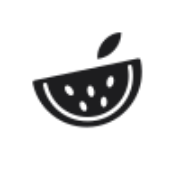
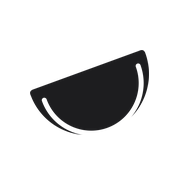
Add files via upload

Changed region(s): [[0.1667, 0.1667, 0.8333, 0.75], [0.5833, 0.4167, 0.6389, 0.5]]

diff --git a/admin/index.html b/admin/index.html
@@ -14,7 +14,7 @@ body{margin:0;background:var(--soft);color:var(--ink);font-family:var(--bf);font
 button{font-family:inherit;cursor:pointer;border:none;background:none;color:inherit;font-size:inherit;padding:0}
 input,select{font-family:var(--bf);font-size:15px;color:var(--ink)}
 b{font-weight:600}
-.top{background:rgba(250,250,252,.85);backdrop-filter:blur(20px);color:var(--ink);border-bottom:1px solid rgba(0,0,0,.08);padding:12px 16px;display:flex;align-items:center;gap:10px;position:sticky;top:0;z-index:5}
+.top{background:rgba(250,250,252,.85);position:sticky;top:0;z-index:5;backdrop-filter:blur(20px);color:var(--ink);border-bottom:1px solid rgba(0,0,0,.08);padding:12px 16px;display:flex;align-items:center;gap:10px;position:sticky;top:0;z-index:5}
 .top h1{margin:0;font-weight:700;font-size:17px;flex:1;display:flex;align-items:center;gap:6px}
 .top h1 span{color:var(--ink)}
 
@@ -64,6 +64,44 @@ th{font-weight:500;color:var(--muted);font-size:12.5px}
 .mrow:last-of-type{border-bottom:none}
 .mrow .mi{flex:1;min-width:0;line-height:1.6}
 .mrow .mi b{font-size:15px;color:var(--navy)}
+
+/* ===== PC 최적화 레이아웃 ===== */
+body{background:#f5f5f7}
+.shell{display:grid;grid-template-columns:248px 1fr;min-height:calc(100vh - 52px)}
+.top{height:52px;padding:0 24px!important}
+.top h1{font-size:15px!important;font-weight:600!important;gap:10px!important}
+.side{background:rgba(250,250,252,.9);border-right:1px solid rgba(0,0,0,.08);padding:20px 12px;position:sticky;top:52px;height:calc(100vh - 52px);overflow:auto}
+.side h6{margin:6px 12px 10px;font-size:11px;font-weight:600;color:var(--gray);letter-spacing:.02em}
+.side button{display:flex;align-items:center;gap:10px;width:100%;text-align:left;padding:9px 12px;border-radius:9px;font-size:14px;color:var(--ink);margin-bottom:2px;position:relative}
+.side button:hover{background:rgba(0,0,0,.04)}
+.side button.on{background:rgba(0,0,0,.07);font-weight:600}
+.side button svg{color:var(--org);flex:0 0 18px}
+.side .bdg2{margin-left:auto;background:var(--org);color:#fff;border-radius:10px;font-size:11px;min-width:20px;height:20px;display:grid;place-items:center;padding:0 6px;font-weight:600}
+.side .me{display:flex;align-items:center;gap:10px;padding:14px 12px;margin-top:18px;border-top:1px solid rgba(0,0,0,.08);font-size:13px}
+.main{padding:36px 44px 60px;max-width:1180px;width:100%}
+.main .ttl{display:flex;align-items:flex-end;justify-content:space-between;gap:16px;margin-bottom:22px}
+.main .ttl h2{margin:0;font-size:34px;font-weight:700;letter-spacing:-.03em;line-height:1.1}
+.main .ttl p{margin:6px 0 0;color:var(--gray);font-size:15px}
+.wrap{max-width:none!important;padding:0!important}
+.card{padding:22px 24px!important}
+.kpis{display:grid;grid-template-columns:repeat(4,1fr);gap:14px;margin-bottom:16px}
+.kpi{background:#fff;border-radius:18px;padding:20px 22px}
+.kpi span{font-size:13px;color:var(--gray)}
+.kpi b{display:block;font-size:30px;font-weight:700;letter-spacing:-.03em;margin-top:4px}
+table.mt td,table.mt th{padding:12px 10px}
+table.mt tr:hover td{background:#fafafc}
+table.mt th{font-size:12px;text-transform:none}
+.grid2{display:grid;grid-template-columns:1.4fr 1fr;gap:16px;align-items:start}
+@media(max-width:960px){
+  .shell{grid-template-columns:1fr}
+  .side{position:static;height:auto;display:flex;gap:6px;overflow-x:auto;padding:10px 12px;border-right:none;border-bottom:1px solid rgba(0,0,0,.08)}
+  .side h6,.side .me{display:none}
+  .side button{width:auto;flex:0 0 auto;white-space:nowrap}
+  .main{padding:22px 16px 40px}
+  .kpis{grid-template-columns:1fr 1fr}
+  .grid2{grid-template-columns:1fr}
+  .scroll-x{overflow-x:auto}
+}
 </style>
 </head>
 <body>
@@ -100,7 +138,7 @@ async function renderLogin(msg) {
   if (SB_URL.includes('YOUR-')) { $('#app').innerHTML = '<div class="login card">admin/index.html 의 SB_URL·SB_KEY 를 앱과 같은 값으로 바꿔 주세요.</div>'; return; }
   let list = []; try { list = await rpc('fh_public_members', {}, true); } catch (e) { $('#app').innerHTML = `<div class="login card">${esc(e.message)}</div>`; return; }
   let sel = null;
-  $('#app').innerHTML = `<div class="login"><img src="../icons/logo.svg" width="52" height="52" alt=""><h1 style="font-weight:700;font-size:28px;letter-spacing:-.03em;margin:12px 0 0">Family Hub admin</h1>
+  $('#app').innerHTML = `<div class="login"><svg width="52" height="52" viewBox="-0.9 1.2 92.6 92.6"><defs><mask id="wmk2"><rect width="100" height="100" fill="#fff"/><path d="M14 40 A36 36 0 0 0 86 40" fill="none" stroke="#000" stroke-width="3.6" stroke-linecap="round"/></mask></defs><g transform="rotate(-20 50 50)"><path mask="url(#wmk2)" d="M6 33 Q6 30 9 30 L91 30 Q94 30 94 33 A44 44 0 0 1 6 33 Z" fill="currentColor"/></g></svg><h1 style="font-weight:700;font-size:28px;letter-spacing:-.03em;margin:12px 0 0">Family Hub admin</h1>
     ${msg ? `<p style="color:#e03131">${esc(msg)}</p>` : '<p class="muted">관리자 계정으로 로그인하세요</p>'}
     <div class="who">${list.map(m => `<button data-id="${m.id}">${av(m, 44)}${esc(m.nick)}</button>`).join('')}</div>
     <input class="inp" id="pin" type="password" inputmode="numeric" placeholder="비밀번호" style="text-align:center;font-size:18px"><button class="btn p" id="go" style="margin-top:12px;width:100%;justify-content:center">들어가기</button>
@@ -116,11 +154,17 @@ async function boot() {
   ME = MEMBERS.find(m => m.role === 'admin') || null;
   render();
 }
+const SVGI = {members: '<circle cx="9" cy="8" r="3.5"/><path d="M2.5 20a6.5 6.5 0 0 1 13 0"/><circle cx="17" cy="9" r="2.5"/><path d="M16 14.5a5 5 0 0 1 5.5 5"/>', rewards: '<rect x="3" y="8" width="18" height="5" rx="1"/><path d="M5 13v8h14v-8M12 8v13M12 8S10.5 3 8 4.5 9 8 12 8zM12 8s1.5-5 4-3.5S15 8 12 8z"/>', points: '<path d="m12 3 2.7 5.6 6.1.9-4.4 4.3 1 6.1L12 17l-5.4 2.9 1-6.1-4.4-4.3 6.1-.9z"/>', push: '<path d="M6 16V11a6 6 0 0 1 12 0v5l2 2H4z"/><path d="M10 21h4"/>', stats: '<path d="M4 20V10M10 20V4M16 20v-7M22 20H2"/>'};
+const ico = k => `<svg width="18" height="18" viewBox="0 0 24 24" fill="none" stroke="currentColor" stroke-width="1.7" stroke-linecap="round" stroke-linejoin="round">${SVGI[k]}</svg>`;
+const TITLE = { members: ['가족 구성원', '가족을 추가·삭제하고 비밀번호와 사진을 관리해요.'], rewards: ['보상·승인', '포인트 상점의 보상과 가족의 신청을 관리해요.'], points: ['포인트', '가족 포인트 현황과 규칙.'], push: ['알림 보내기', '가족 모두의 휴대폰에 알림을 보내요.'], stats: ['현황·설정', '저장 용량과 자동 알림 상태.'] };
 async function render() {
   let pend = 0; try { const rw = await rpc('fh_admin_rewards'); pend = rw.redemptions.filter(x => x.status === 'pending').length; } catch (e) { return; }
+  const me = MEMBERS.find(m => m.role === 'admin') || {};
   const T = [['members', '가족 구성원'], ['rewards', '보상·승인', pend], ['points', '포인트'], ['push', '알림 보내기'], ['stats', '현황·설정']];
-  $('#app').innerHTML = `<header class="top"><h1><img src="../icons/logo.svg" width="22" height="22" alt=""> admin</h1><a href="../">Family Hub로 ›</a><button class="btn sm" id="out">로그아웃</button></header>
-    <nav class="tabs">${T.map(([k, t, b]) => `<button data-t="${k}" class="${TAB === k ? 'on' : ''}">${t}${b ? `<span class="bdg">${b}</span>` : ''}</button>`).join('')}</nav><main class="wrap" id="main">불러오는 중…</main>`;
+  $('#app').innerHTML = `<header class="top"><h1><svg width="22" height="22" viewBox="-0.9 1.2 92.6 92.6"><defs><mask id="wmk"><rect width="100" height="100" fill="#fff"/><path d="M14 40 A36 36 0 0 0 86 40" fill="none" stroke="#000" stroke-width="3.6" stroke-linecap="round"/></mask></defs><g transform="rotate(-20 50 50)"><path mask="url(#wmk)" d="M6 33 Q6 30 9 30 L91 30 Q94 30 94 33 A44 44 0 0 1 6 33 Z" fill="currentColor"/></g></svg>Family Hub admin</h1><a href="../">Family Hub 앱 열기 ›</a><button class="btn sm" id="out">로그아웃</button></header>
+    <div class="shell"><aside class="side"><h6>관리</h6>${T.map(([k, t, b]) => `<button data-t="${k}" class="${TAB === k ? 'on' : ''}">${ico(k)}${t}${b ? `<span class="bdg2">${b}</span>` : ''}</button>`).join('')}
+      <div class="me">${av(me, 30)}<div><b>${esc(me.nick || '')}</b><div class="muted" style="font-size:12px">관리자</div></div></div></aside>
+    <section class="main"><div class="ttl"><div><h2>${TITLE[TAB][0]}</h2><p>${TITLE[TAB][1]}</p></div><div id="ttlAct"></div></div><main class="wrap" id="main">불러오는 중…</main></section></div>`;
   $$('[data-t]').forEach(b => b.onclick = () => { TAB = b.dataset.t; render(); });
   $('#out').onclick = async () => { await rpc('fh_logout').catch(() => {}); TOKEN = null; localStorage.removeItem('fh_token'); renderLogin(); };
   try { await VIEWS[TAB]($('#main')); } catch (e) { $('#main').innerHTML = `<div class="card">${esc(e.message)}</div>`; }
@@ -129,13 +173,16 @@ async function render() {
 const VIEWS = {
   async members(el) {
     MEMBERS = await rpc('fh_admin_members'); await loadPhotos();
-    el.innerHTML = `<div class="card"><h3>가족 구성원 <small><button class="btn p sm" id="add">＋ 가족 추가</button></small></h3>
-      ${MEMBERS.map(m => `<div class="mrow" style="${m.active ? '' : 'opacity:.45'}">${av(m, 40)}
-        <div class="mi"><b>${esc(m.nick)}</b> <small class="muted">${esc(m.name)} · ${m.birth.replace(/-/g, '.')}</small><br>
-          ${m.role === 'admin' ? '<span class="tag adm">admin</span>' : '<span class="tag">가족</span>'}${m.must_change ? ' <span class="tag wait">초기 비번</span>' : ''}${m.locked ? ' <span class="tag no">잠김</span>' : ''}${m.active ? '' : ' <span class="tag no">비활성</span>'}
-          <small class="muted"> ${fmtN(m.points.balance)}P · 접속 ${ago(m.last_seen)} · 기기 ${m.sessions} · 알림 ${m.push ? m.push + '대' : '꺼짐'}</small></div>
-        <button class="btn sm" data-ed="${m.id}">관리</button></div>`).join('')}
-      <p class="hint">· 새 가족의 처음 비밀번호는 <b>생일 6자리(YYMMDD)</b>예요. 처음 로그인할 때 바꾸도록 안내돼요.<br>· 비밀번호를 잊으면 [관리 → 비밀번호 초기화]를 누르면 생일 번호로 돌아가요.<br>· 비밀 메시지·타임캡슐 내용은 admin에서도 볼 수 없어요.</p></div>`;
+    const act = MEMBERS.filter(m => m.active), init = act.filter(m => m.must_change).length, push = act.filter(m => m.push).length;
+    $('#ttlAct').innerHTML = '<button class="btn p" id="add">＋ 가족 추가</button>';
+    el.innerHTML = `<div class="kpis"><div class="kpi"><span>가족</span><b>${act.length}명</b></div><div class="kpi"><span>초기 비밀번호 사용</span><b>${init}명</b></div><div class="kpi"><span>알림 켠 가족</span><b>${push}명</b></div><div class="kpi"><span>포인트 합계</span><b>${fmtN(act.reduce((a, m) => a + m.points.balance, 0))}P</b></div></div>
+      <div class="card scroll-x"><table class="mt"><tr><th></th><th>이름</th><th>실명</th><th>생일</th><th>권한</th><th>상태</th><th style="text-align:right">포인트</th><th>최근 접속</th><th>기기</th><th>알림</th><th></th></tr>
+      ${MEMBERS.map(m => `<tr style="${m.active ? '' : 'opacity:.45'}"><td style="width:48px">${av(m, 36)}</td><td><b>${esc(m.nick)}</b></td><td class="muted">${esc(m.name)}</td><td>${m.birth.replace(/-/g, '.')}</td>
+        <td>${m.role === 'admin' ? '<span class="tag adm">admin</span>' : '<span class="tag">가족</span>'}</td>
+        <td>${m.must_change ? '<span class="tag wait">초기 비번</span> ' : '<span class="tag ok">정상</span> '}${m.locked ? '<span class="tag no">잠김</span>' : ''}${m.active ? '' : '<span class="tag no">비활성</span>'}</td>
+        <td style="text-align:right">${fmtN(m.points.balance)}P</td><td class="muted">${ago(m.last_seen)}</td><td>${m.sessions}</td><td>${m.push ? m.push + '대' : '<span class="muted">꺼짐</span>'}</td>
+        <td style="text-align:right"><button class="btn sm" data-ed="${m.id}">관리</button></td></tr>`).join('')}</table></div>
+      <p class="hint">· 새 가족의 처음 비밀번호는 <b>생일 6자리(YYMMDD)</b>예요. 처음 로그인할 때 바꾸도록 안내돼요.<br>· 비밀번호를 잊으면 [관리 → 비밀번호 초기화]를 누르면 생일 번호로 돌아가요.<br>· 비밀 메시지·타임캡슐 내용은 admin에서도 볼 수 없어요.</p>`;
     $('#add').onclick = () => memberForm(null);
     $$('[data-ed]').forEach(b => b.onclick = () => memberForm(MEMBERS.find(m => m.id === +b.dataset.ed)));
   },

diff --git a/index.html b/index.html
@@ -433,6 +433,36 @@ textarea.inp{resize:vertical;min-height:84px;line-height:1.5}
 .photo-edit{display:flex;align-items:center;gap:16px}
 .photo-edit .av{cursor:pointer}
 
+/* iOS 스타일 하단 탭바 (모바일) */
+.tabbar{display:none;position:fixed;left:0;right:0;bottom:0;z-index:40;grid-template-columns:repeat(5,1fr);background:rgba(250,250,252,.92);backdrop-filter:saturate(180%) blur(20px);-webkit-backdrop-filter:saturate(180%) blur(20px);border-top:.5px solid rgba(0,0,0,.18);padding:6px 4px calc(4px + var(--safe-b))}
+.tabbar a,.tabbar button{display:flex;flex-direction:column;align-items:center;gap:2px;color:#8e8e93;font-size:10px;font-weight:500;text-decoration:none!important;position:relative;padding:2px 0}
+.tabbar a.on{color:var(--blue)}
+.tabbar .tb-dot{position:absolute;top:2px;right:calc(50% - 16px);width:8px;height:8px;border-radius:50%;background:#ff3b30}
+@media(max-width:833px){
+  .tabbar{display:grid}
+  .nav.foot-dir{display:none}
+  #app{padding-bottom:calc(70px + var(--safe-b))}
+  .gn-burger{display:none!important}
+  .gnav{height:44px}.gn-in{height:44px}.gn-logo{height:44px}.gn-logo svg{width:22px;height:22px}
+  #toast{bottom:calc(84px + var(--safe-b))}
+  .phead{padding:18px 16px 2px}
+  .phead h1{font-size:30px}
+  .phead p{font-size:15px}
+  .wrap{padding:12px 12px 24px}
+  .card{padding:16px;border-radius:14px;margin-bottom:12px}
+  .card h3{font-size:17px}
+  .hero{padding:26px 16px 0;text-align:left}
+  .hero h1{font-size:30px}
+  .hero p{font-size:16px;color:var(--gray)}
+  .chapter{justify-content:flex-start;padding:16px 8px 14px}
+  .chapter a{width:66px;font-size:11px}
+  .mcard{border-radius:14px}
+  .fam{gap:10px}
+  .alert{border-radius:12px;padding:12px 14px}
+  .sheet{padding:18px 16px calc(18px + var(--safe-b))}
+  .btn.block{padding:13px 18px;font-size:16px}
+}
+
 @media(max-width:833px){
   .gn-list{display:none}
   .gn-burger{display:grid}
@@ -464,7 +494,7 @@ textarea.inp{resize:vertical;min-height:84px;line-height:1.5}
 const SB_URL = 'https://kcpymvsvczjjqptvtvxf.supabase.co';          // Project Settings → API → Project URL
 const SB_KEY = 'sb_publishable_I70vgd6mSVcflUH_NkzGAw_z0z2dWt7';                         // Project Settings → API Keys → anon(public) 또는 Publishable key
 const VAPID_PUBLIC_KEY = 'BORHql6j4hY0yWJlD1CXtbzeYXIF1dxkHLbD4SyYQqQn9riQjrM4j2w5gs2mhKcUHBvh_vkjFiVPOSnAA2W_IVw';
-const APP_VER = 'v2.0 · 2026.11';
+const APP_VER = 'v2.1 · 2026.11';
 
 /* ---------------- 기본 도구 ---------------- */
 const $ = (s, r = document) => r.querySelector(s), $$ = (s, r = document) => [...r.querySelectorAll(s)];
@@ -558,7 +588,7 @@ const IC = {
   phone: '<rect x="6" y="2" width="12" height="20" rx="3"/><path d="M11 18h2"/>'
 };
 const icon = (n, s = 20, w = 1.8) => `<svg class="ic" width="${s}" height="${s}" viewBox="0 0 24 24" fill="none" stroke="currentColor" stroke-width="${w}" stroke-linecap="round" stroke-linejoin="round">${IC[n] || IC.info}</svg>`;
-const LOGO = `<svg viewBox="2 4 96 96" aria-label="Family Hub"><defs><mask id="wmk"><rect x="0" y="0" width="100" height="100" fill="#fff"/><path d="M17 41 A33 33 0 0 0 83 41" fill="none" stroke="#000" stroke-width="3.2" stroke-linecap="round"/><g fill="#000"><ellipse cx="34" cy="49" rx="2.6" ry="4.4" transform="rotate(-25 34 49)"/><ellipse cx="50" cy="53" rx="2.6" ry="4.4"/><ellipse cx="66" cy="49" rx="2.6" ry="4.4" transform="rotate(25 66 49)"/><ellipse cx="42" cy="63" rx="2.4" ry="4" transform="rotate(-12 42 63)"/><ellipse cx="58" cy="63" rx="2.4" ry="4" transform="rotate(12 58 63)"/></g></mask></defs><g mask="url(#wmk)" transform="rotate(-12 50 50)"><path d="M8 38 Q8 36 10 36 L90 36 Q92 36 92 38 A42 42 0 0 1 8 38 Z" fill="currentColor"/></g><path d="M60 30 C 62 18, 74 12, 82 14 C 80 24, 70 31, 60 30 Z" fill="currentColor" transform="rotate(-12 50 50)"/></svg>`;
+const LOGO = `<svg viewBox="-0.9 1.2 92.6 92.6" aria-label="Family Hub"><defs><mask id="wmk"><rect x="-10" y="-10" width="120" height="130" fill="#fff"/><path d="M14 40 A36 36 0 0 0 86 40" fill="none" stroke="#000" stroke-width="3.6" stroke-linecap="round"/></mask></defs><g transform="rotate(-20 50 50)"><path mask="url(#wmk)" d="M6 33 Q6 30 9 30 L91 30 Q94 30 94 33 A44 44 0 0 1 6 33 Z" fill="currentColor"/></g></svg>`;
 /* ---------------- 전체 메뉴 (apple.com 스타일) ---------------- */
 function menuData() {
   const h = S.home || {}, trips = (h.trips || []).slice(0, 3), admin = S.me && S.me.role === 'admin';
@@ -653,7 +683,8 @@ function navBar(path) {
   const M_ = menuData(), np = S.home && S.home.new_posts;
   return `<nav class="nav foot-dir"><div class="fd-in"><div class="fd-note">Family Hub는 가족만 사용하는 비공개 앱이에요. 비밀 메시지와 여행 서류는 정해진 가족만 볼 수 있어요.${np ? ` · 새 글 <a href="#/board">${np}개</a>` : ''}</div>
     <div class="fd-cols">${M_.map(it => `<div><h6>${esc(it.t)}</h6>${it.big.concat(it.cols.flatMap(c => c[1])).filter((x, i, a) => a.findIndex(y => y[0] === x[0]) === i).slice(0, 7).map(([t, to]) => `<a href="${to}">${esc(t)}</a>`).join('')}</div>`).join('')}</div>
-    <div class="fd-bot"><span>Copyright © ${new Date().getFullYear()} Family Hub. 모든 권리 보유.</span><span>${esc(S.me.nick)} · <a href="#/me">설정</a> · ${APP_VER}</span></div></div></nav>`;
+    <div class="fd-bot"><span>Copyright © ${new Date().getFullYear()} Family Hub. 모든 권리 보유.</span><span>${esc(S.me.nick)} · <a href="#/me">설정</a> · ${APP_VER}</span></div></div></nav>
+    <div class="tabbar">${[['/', 'home', '홈'], ['/todo', 'check', '오늘'], ['/trip', 'plane', '여행'], ['/board', 'board', '게시판'], ['menu', 'grid', '메뉴']].map(([p, i, t]) => p === 'menu' ? `<button onclick="openMobileMenu()">${icon(i, 24, 1.6)}<span>${t}</span></button>` : `<a href="#${p}" class="${path === p || (p === '/todo' && ['/todo', '/mission', '/points'].includes(path)) || (p === '/board' && ['/board', '/album', '/capsule'].includes(path)) ? 'on' : ''}">${icon(i, 24, 1.6)}<span>${t}</span>${p === '/board' && np ? `<i class="tb-dot"></i>` : ''}</a>`).join('')}</div>`;
 }
 async function loadHome() {
   const h = await rpc('fh_home'); S.home = h; S.me = h.me; S.members = h.members;
